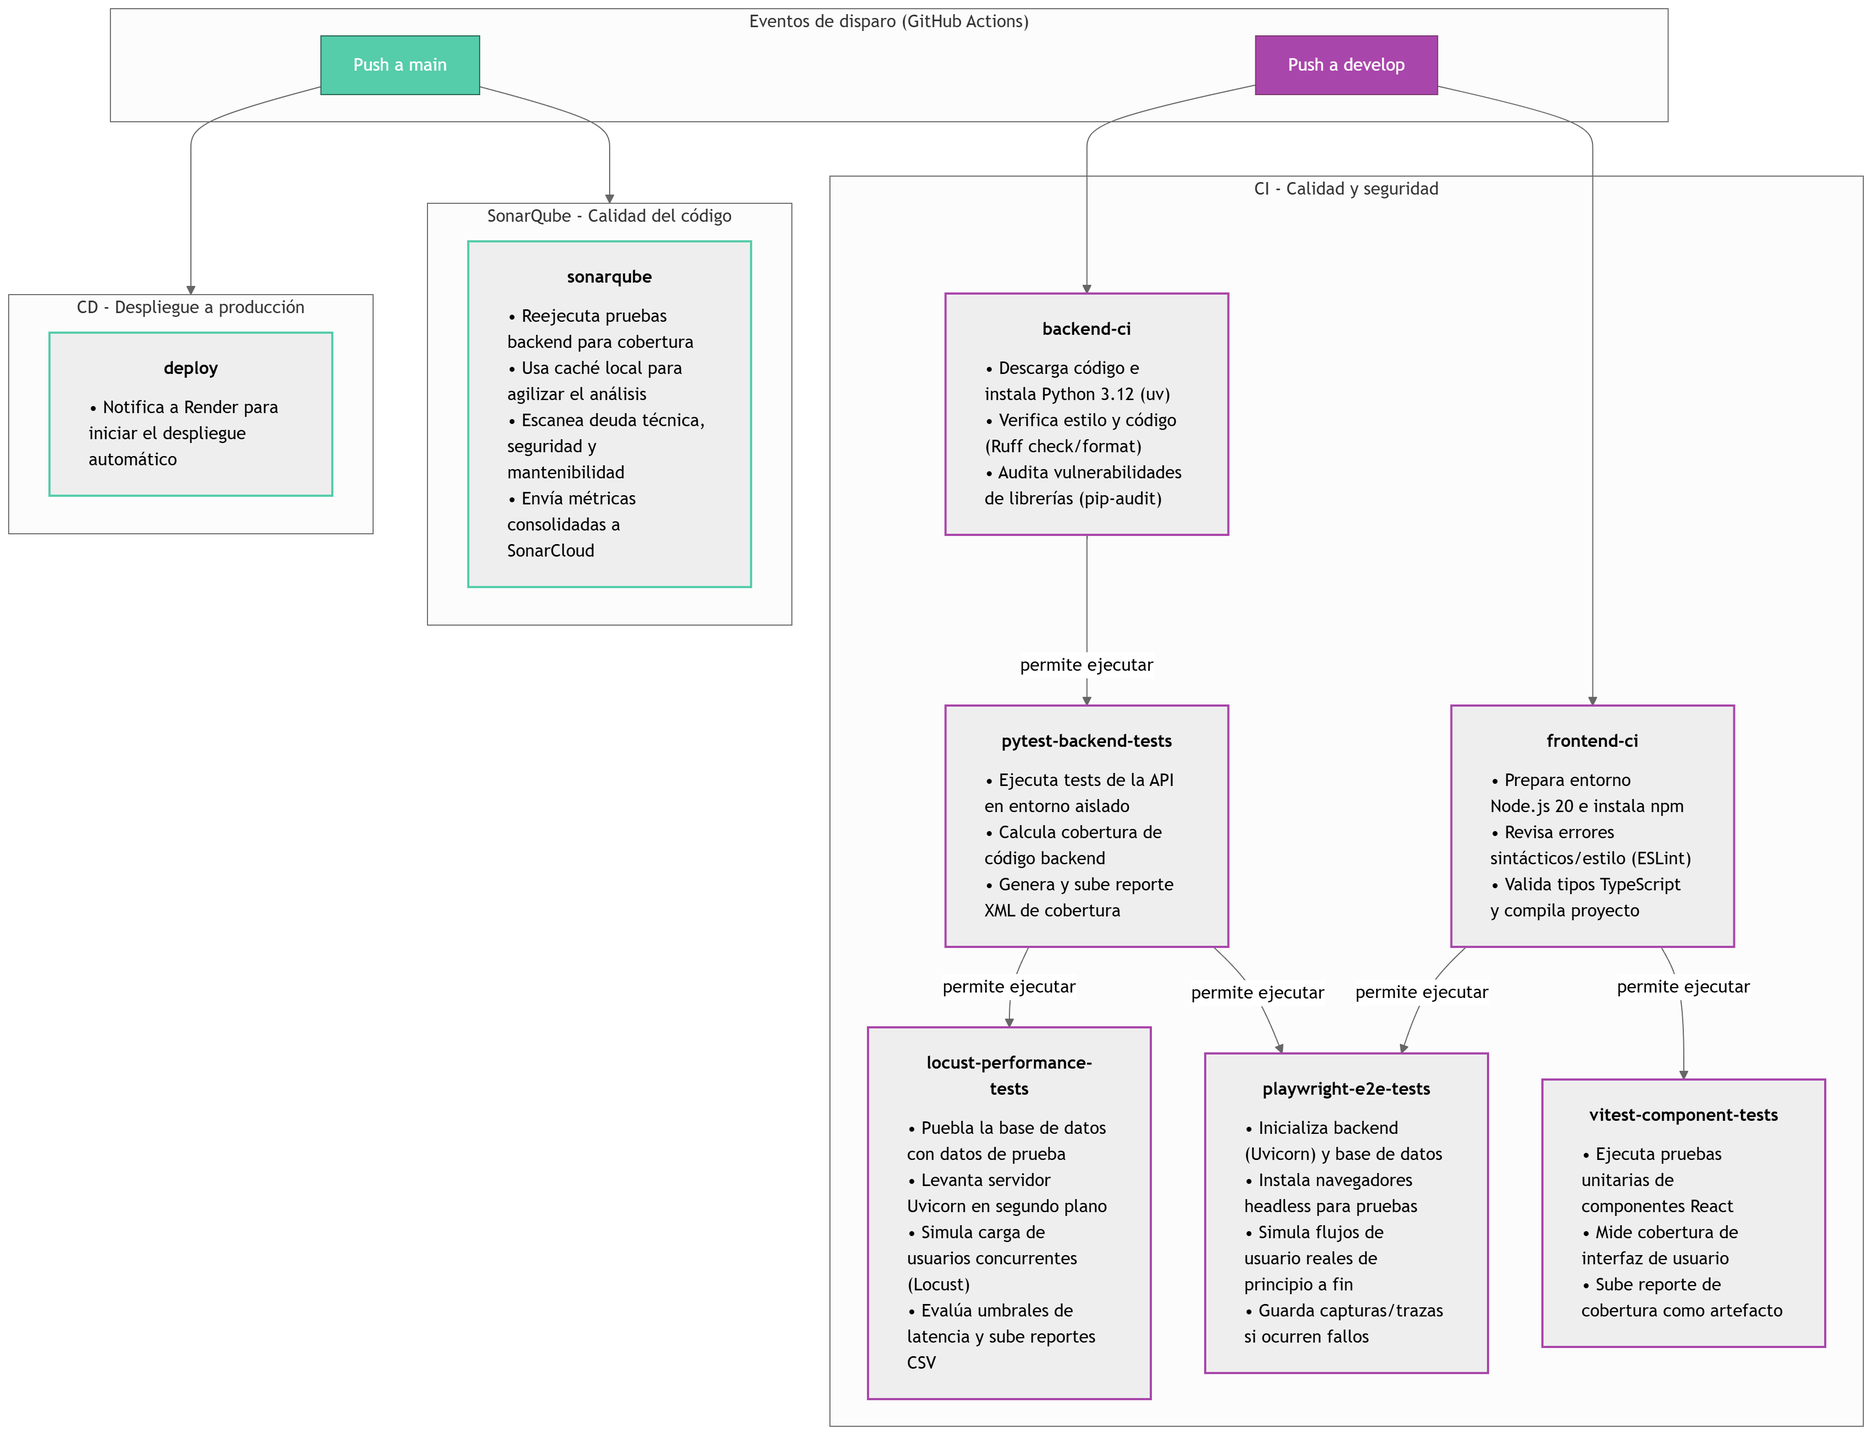
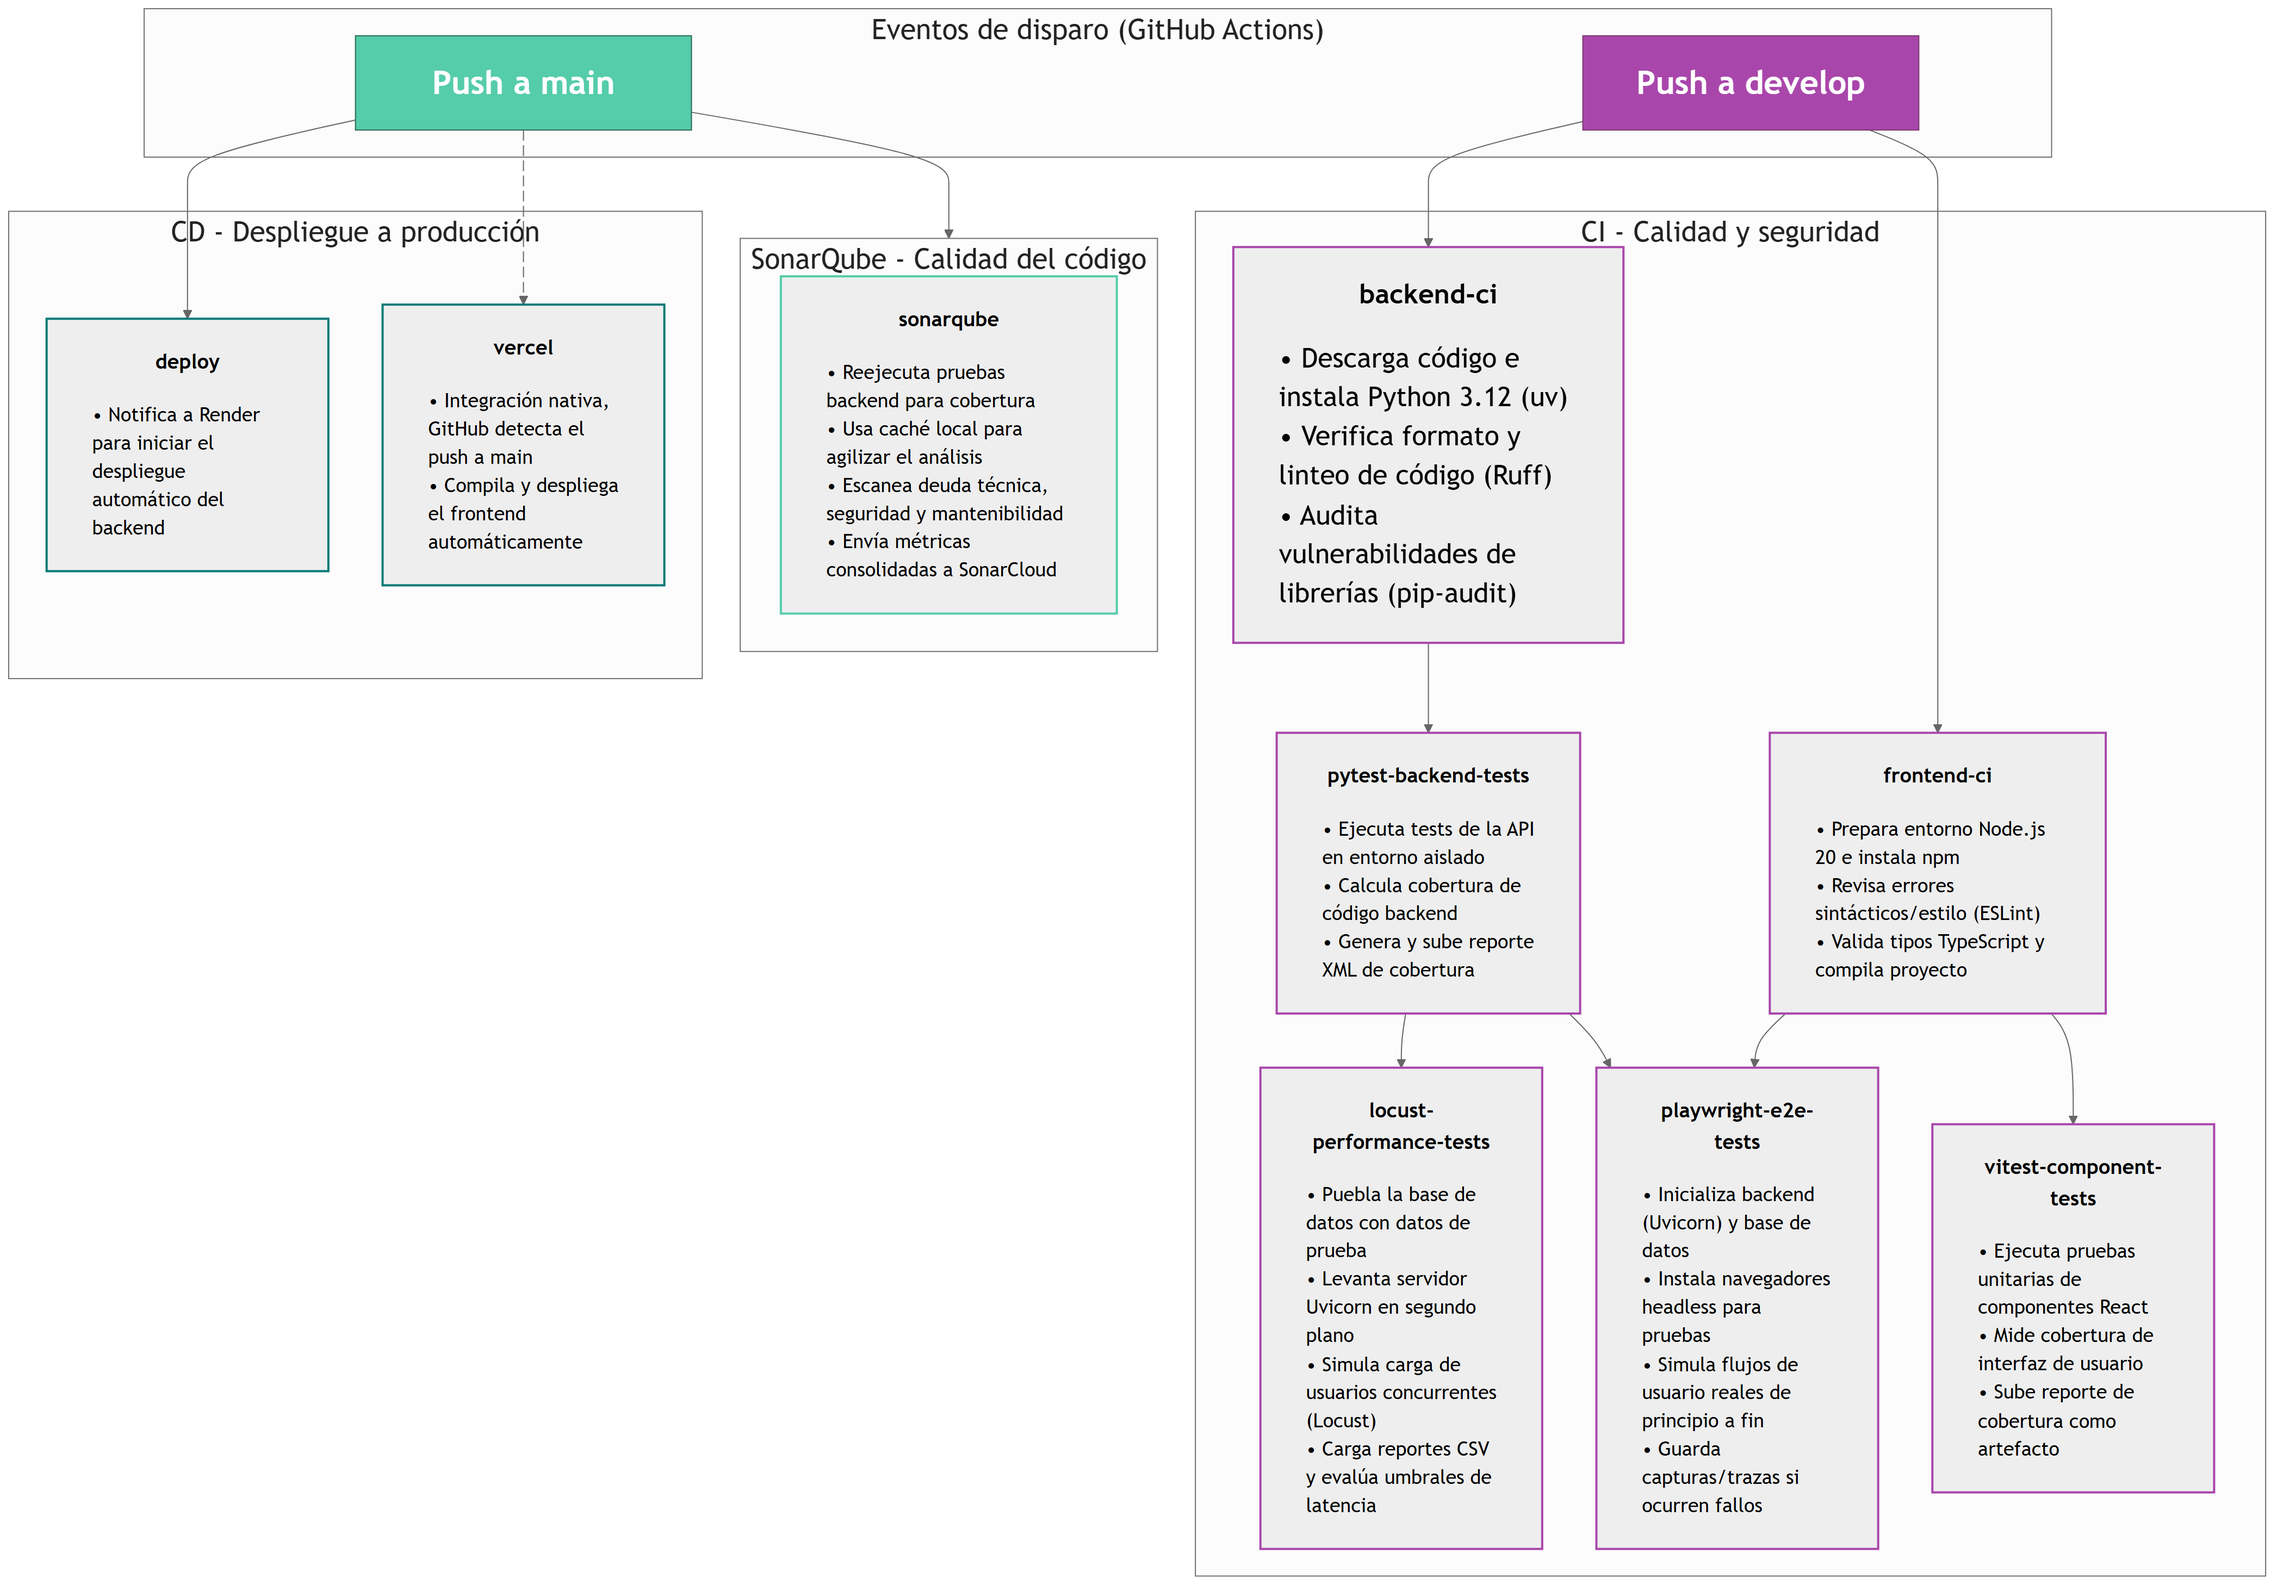
docs: update ci/cd diagrams with vercel integration on github

diff --git a/thesis/sections/07_Metodologia_de_desarrollo.tex b/thesis/sections/07_Metodologia_de_desarrollo.tex
@@ -281,18 +281,25 @@ Tras producirse un \textit{push} en la rama \texttt{main}, el despliegue del ent
 
 \subsection{Resumen de la estructura de CI/CD}\label{subsec:resumen_cicd}
 
-La siguiente figura resume la estructura del flujo de CI/CD, integrando los \textit{jobs}, scripts y herramientas utilizadas en cada fase:
+A continuación, se detalla la estructura del flujo de integración y despliegue continuos, desglosando las fases ejecutadas según la rama de destino:
 
 \begin{figure}[H]
 \centering
 \makebox[\textwidth][c]{%
-  \includegraphics[width=1.2\textwidth]{figures/ci_cd_ampliado.png}%
+  \includegraphics[width=1.2\textwidth]{figures/ci_develop.png}%
 }
-\caption{Resumen detallado de la estructura de CI/CD.}
-\label{fig:ci_cd_completo}
+\caption{Resumen del flujo de CI para la rama \textit{develop}.}
+\label{fig:ci_develop}
 \end{figure}
 
-\newpage
+\begin{figure}[H]
+\centering
+\makebox[\textwidth][c]{%
+  \includegraphics[width=1.2\textwidth]{figures/ci_cd_main.png}%
+}
+\caption{Resumen del flujo de CI/CD para la rama \textit{main}.}
+\label{fig:cicd_main}
+\end{figure}
 
 \section{Gestión de configuración y entorno}\label{sec:env_secrets}
 
